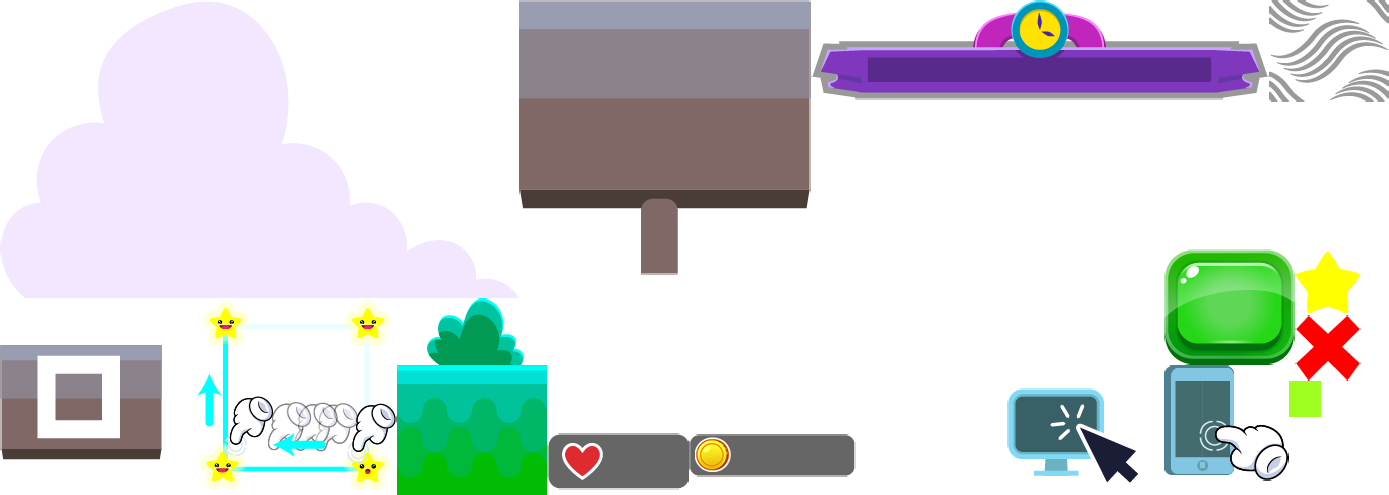
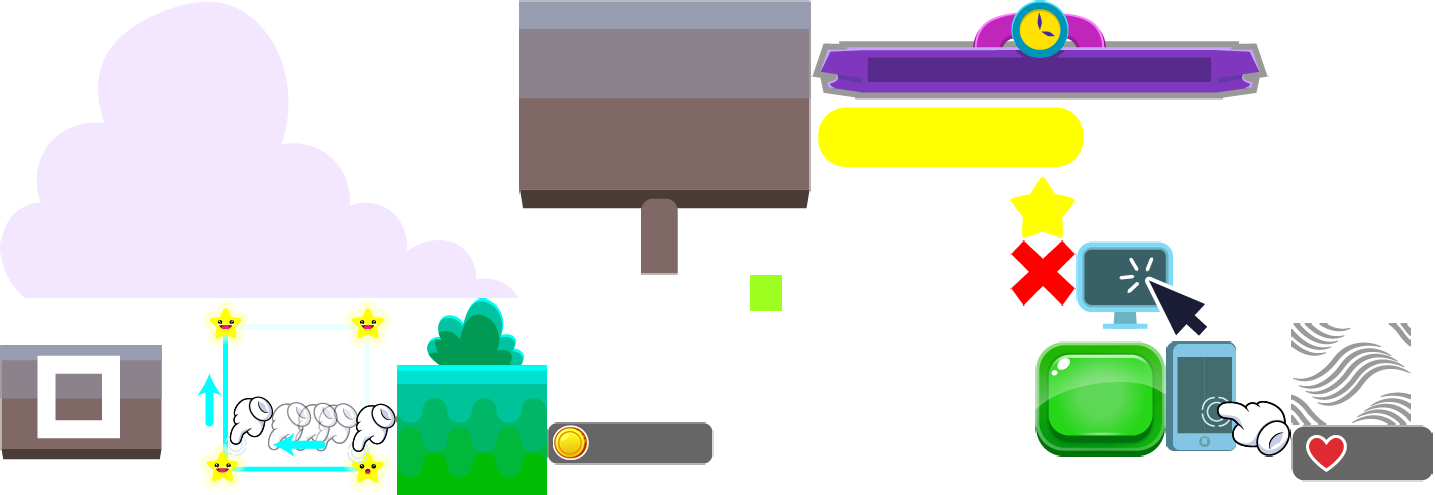
astronometric yogomeGames update

diff --git a/nonrefactored/astronoMetric/astronoMetric/js/scenes/astrono.js b/nonrefactored/astronoMetric/astronoMetric/js/scenes/astrono.js
@@ -5,12 +5,26 @@ var astrono = function(){
 	var localizationData = {
 		"EN":{
 			"howTo":"How to Play?",
-			"moves":"Moves left"
+			"moves":"Moves left",
+			"triangle":"Triangle",
+			"square":"Square",
+			"rectangle":"Rectangle",
+			"rhomboid":"Rhombus",
+			"trapezoid":"Trapezoid",
+			"pentagon":"Pentagon",
+			"hexagon":"Hexagon"
 		},
 
 		"ES":{
 			"moves":"Movimientos extra",
-			"howTo":"¿Cómo jugar?"
+			"howTo":"¿Cómo jugar?",
+			"triangle":"Triángulo",
+			"square":"Cuadrado",
+			"rectangle":"Rectángulo",
+			"rhomboid":"Rombo",
+			"trapezoid":"Trapecio",
+			"pentagon":"Pentágono",
+			"hexagon":"Hexágono"
 		}
 	}
 
@@ -103,7 +117,7 @@ var astrono = function(){
 
 	var lives
 	var sceneGroup = null
-	var gameIndex = 33
+	var gameIndex = 62
 	var tutoGroup
 	var astronoSong
 	var heartsGroup = null
@@ -341,7 +355,7 @@ var astrono = function(){
 	function preload(){
 
 		game.stage.disableVisibilityChange = false;
-		game.load.audio('astronoSong', soundsPath + 'songs/wormwood.mp3');
+		game.load.audio('astronoSong', soundsPath + 'songs/the_buildup.mp3');
 
 		game.load.image('introscreen',"images/astrono/introscreen.png")
 		game.load.image('howTo',"images/astrono/how" + localization.getLanguage() + ".png")
@@ -505,7 +519,6 @@ var astrono = function(){
 			inputName = 'desktop'
 		}
 
-		//console.log(inputName)
 		var inputLogo = tutoGroup.create(game.world.centerX ,game.world.centerY + 125,'atlas.astrono',inputName)
 		inputLogo.anchor.setTo(0.5,0.5)
 		// inputLogo.scale.setTo(0.7,0.7)
@@ -610,7 +623,6 @@ var astrono = function(){
 					line.star = star
 					// lines.push(line)
 					currentLine = line
-					console.log(lines.length)
 					break
 				}
 			}
@@ -723,7 +735,6 @@ var astrono = function(){
 
 		for(var starIndex = 0; starIndex < starsInGame.length; starIndex++){
 			var star = starsInGame[starIndex]
-			console.log(star)
 			game.add.tween(star.scale).to({x: 1.5, y:1.5}, 300, Phaser.Easing.Sinusoidal.In, true).yoyo(true)
 			game.add.tween(star).to({alpha:0}, 300, Phaser.Easing.Cubic.Out, true, 600)
 			star.setAnimation(["IDLE"])

diff --git a/nonrefactored/shared/minigames/js/helpers/yogomeGames.js b/nonrefactored/shared/minigames/js/helpers/yogomeGames.js
@@ -64,7 +64,9 @@ yogomeGames.getGames = function(){
 		{name:'squatCount',url:'http://yogome.com/epic/minigames/squatSite/',sceneName:'squat',subject:'math', review:true},//57
 		{name:'baxtion',url:'http://yogome.com/epic/minigames/baxSite/',sceneName:'bax',subject:'math', review:true},//58
 		{name:'mathgicHat',url:'http://yogome.com/epic/minigames/hatSite/',sceneName:'magic',subject:'math', review:true},//59
-		{name:'seaquence',url:'http://yogome.com/epic/minigames/seaSite/',sceneName:'seaquence',subject:'math', review:true}//60
+		{name:'seaquence',url:'http://yogome.com/epic/minigames/seaSite/',sceneName:'seaquence',subject:'math', review:true},//60
+		{name:'clockfix',url:'http://yogome.com/epic/minigames/clockfixSite/',sceneName:'clockfix',subject:'math', review:false},//61
+		{name:'astronoMetric',url:'http://yogome.com/epic/minigames/astronoSite/',sceneName:'astrono',subject:'math', review:true}//62
 	]
 
 	
